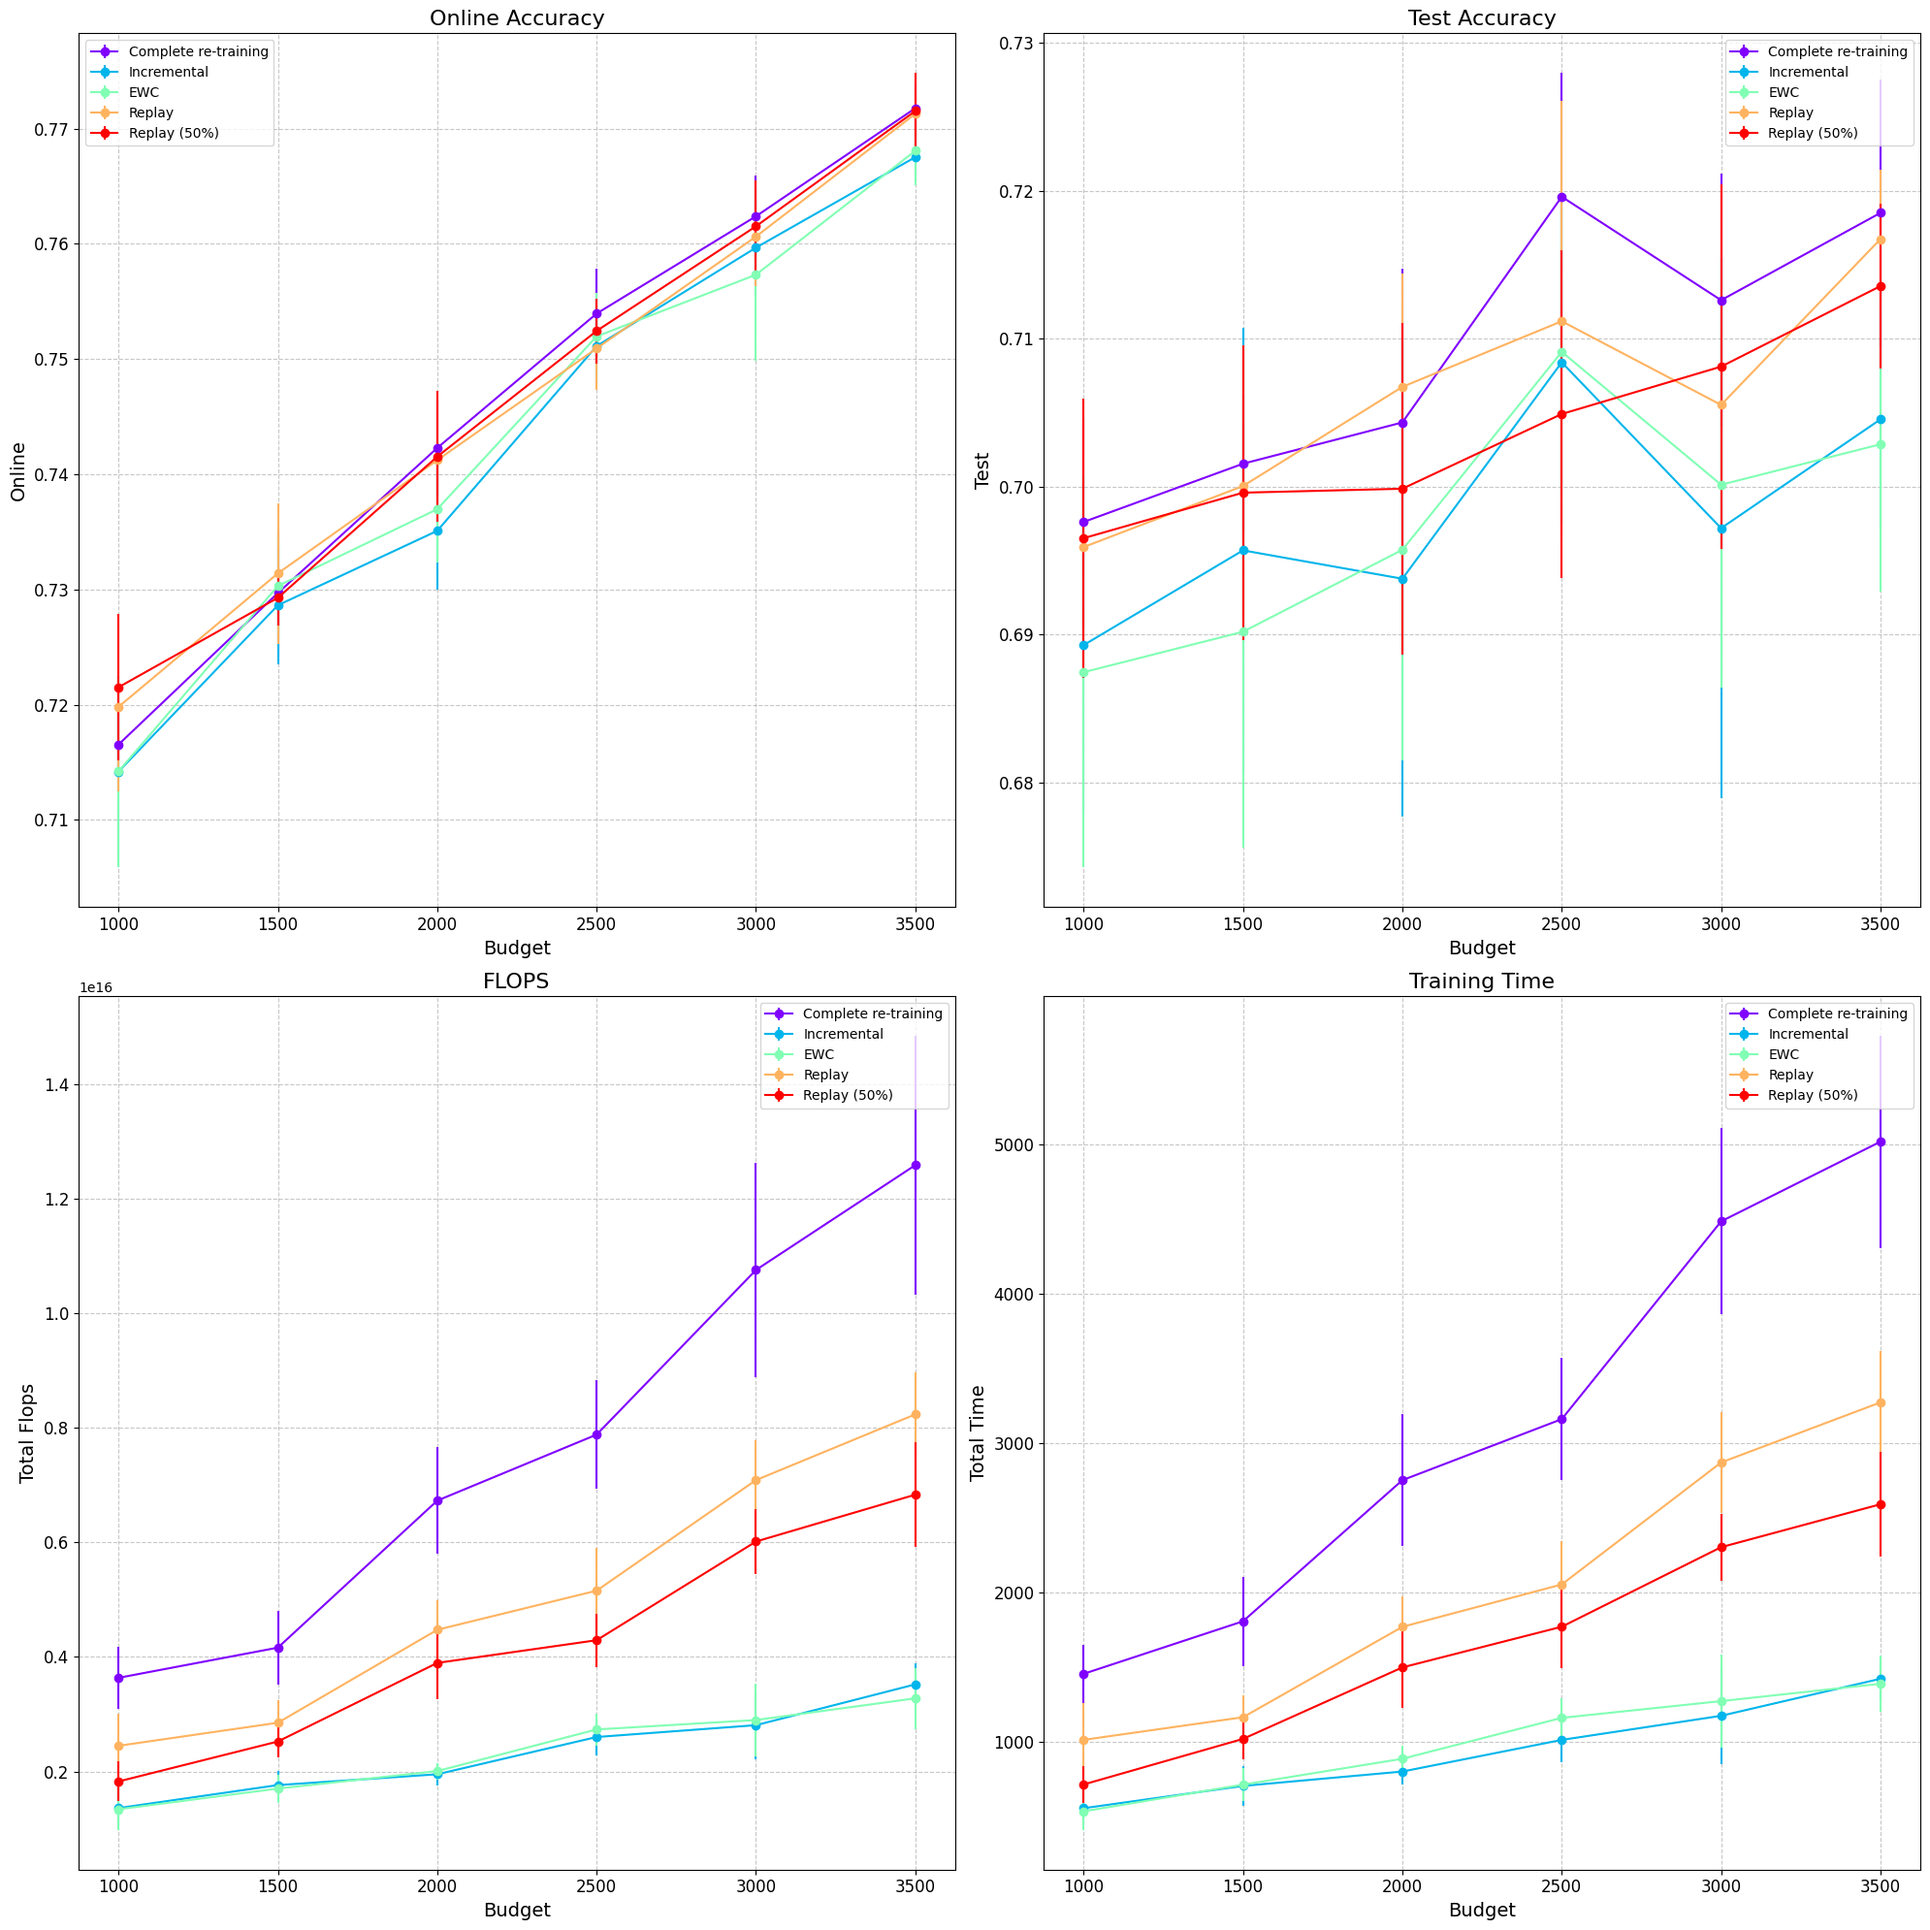
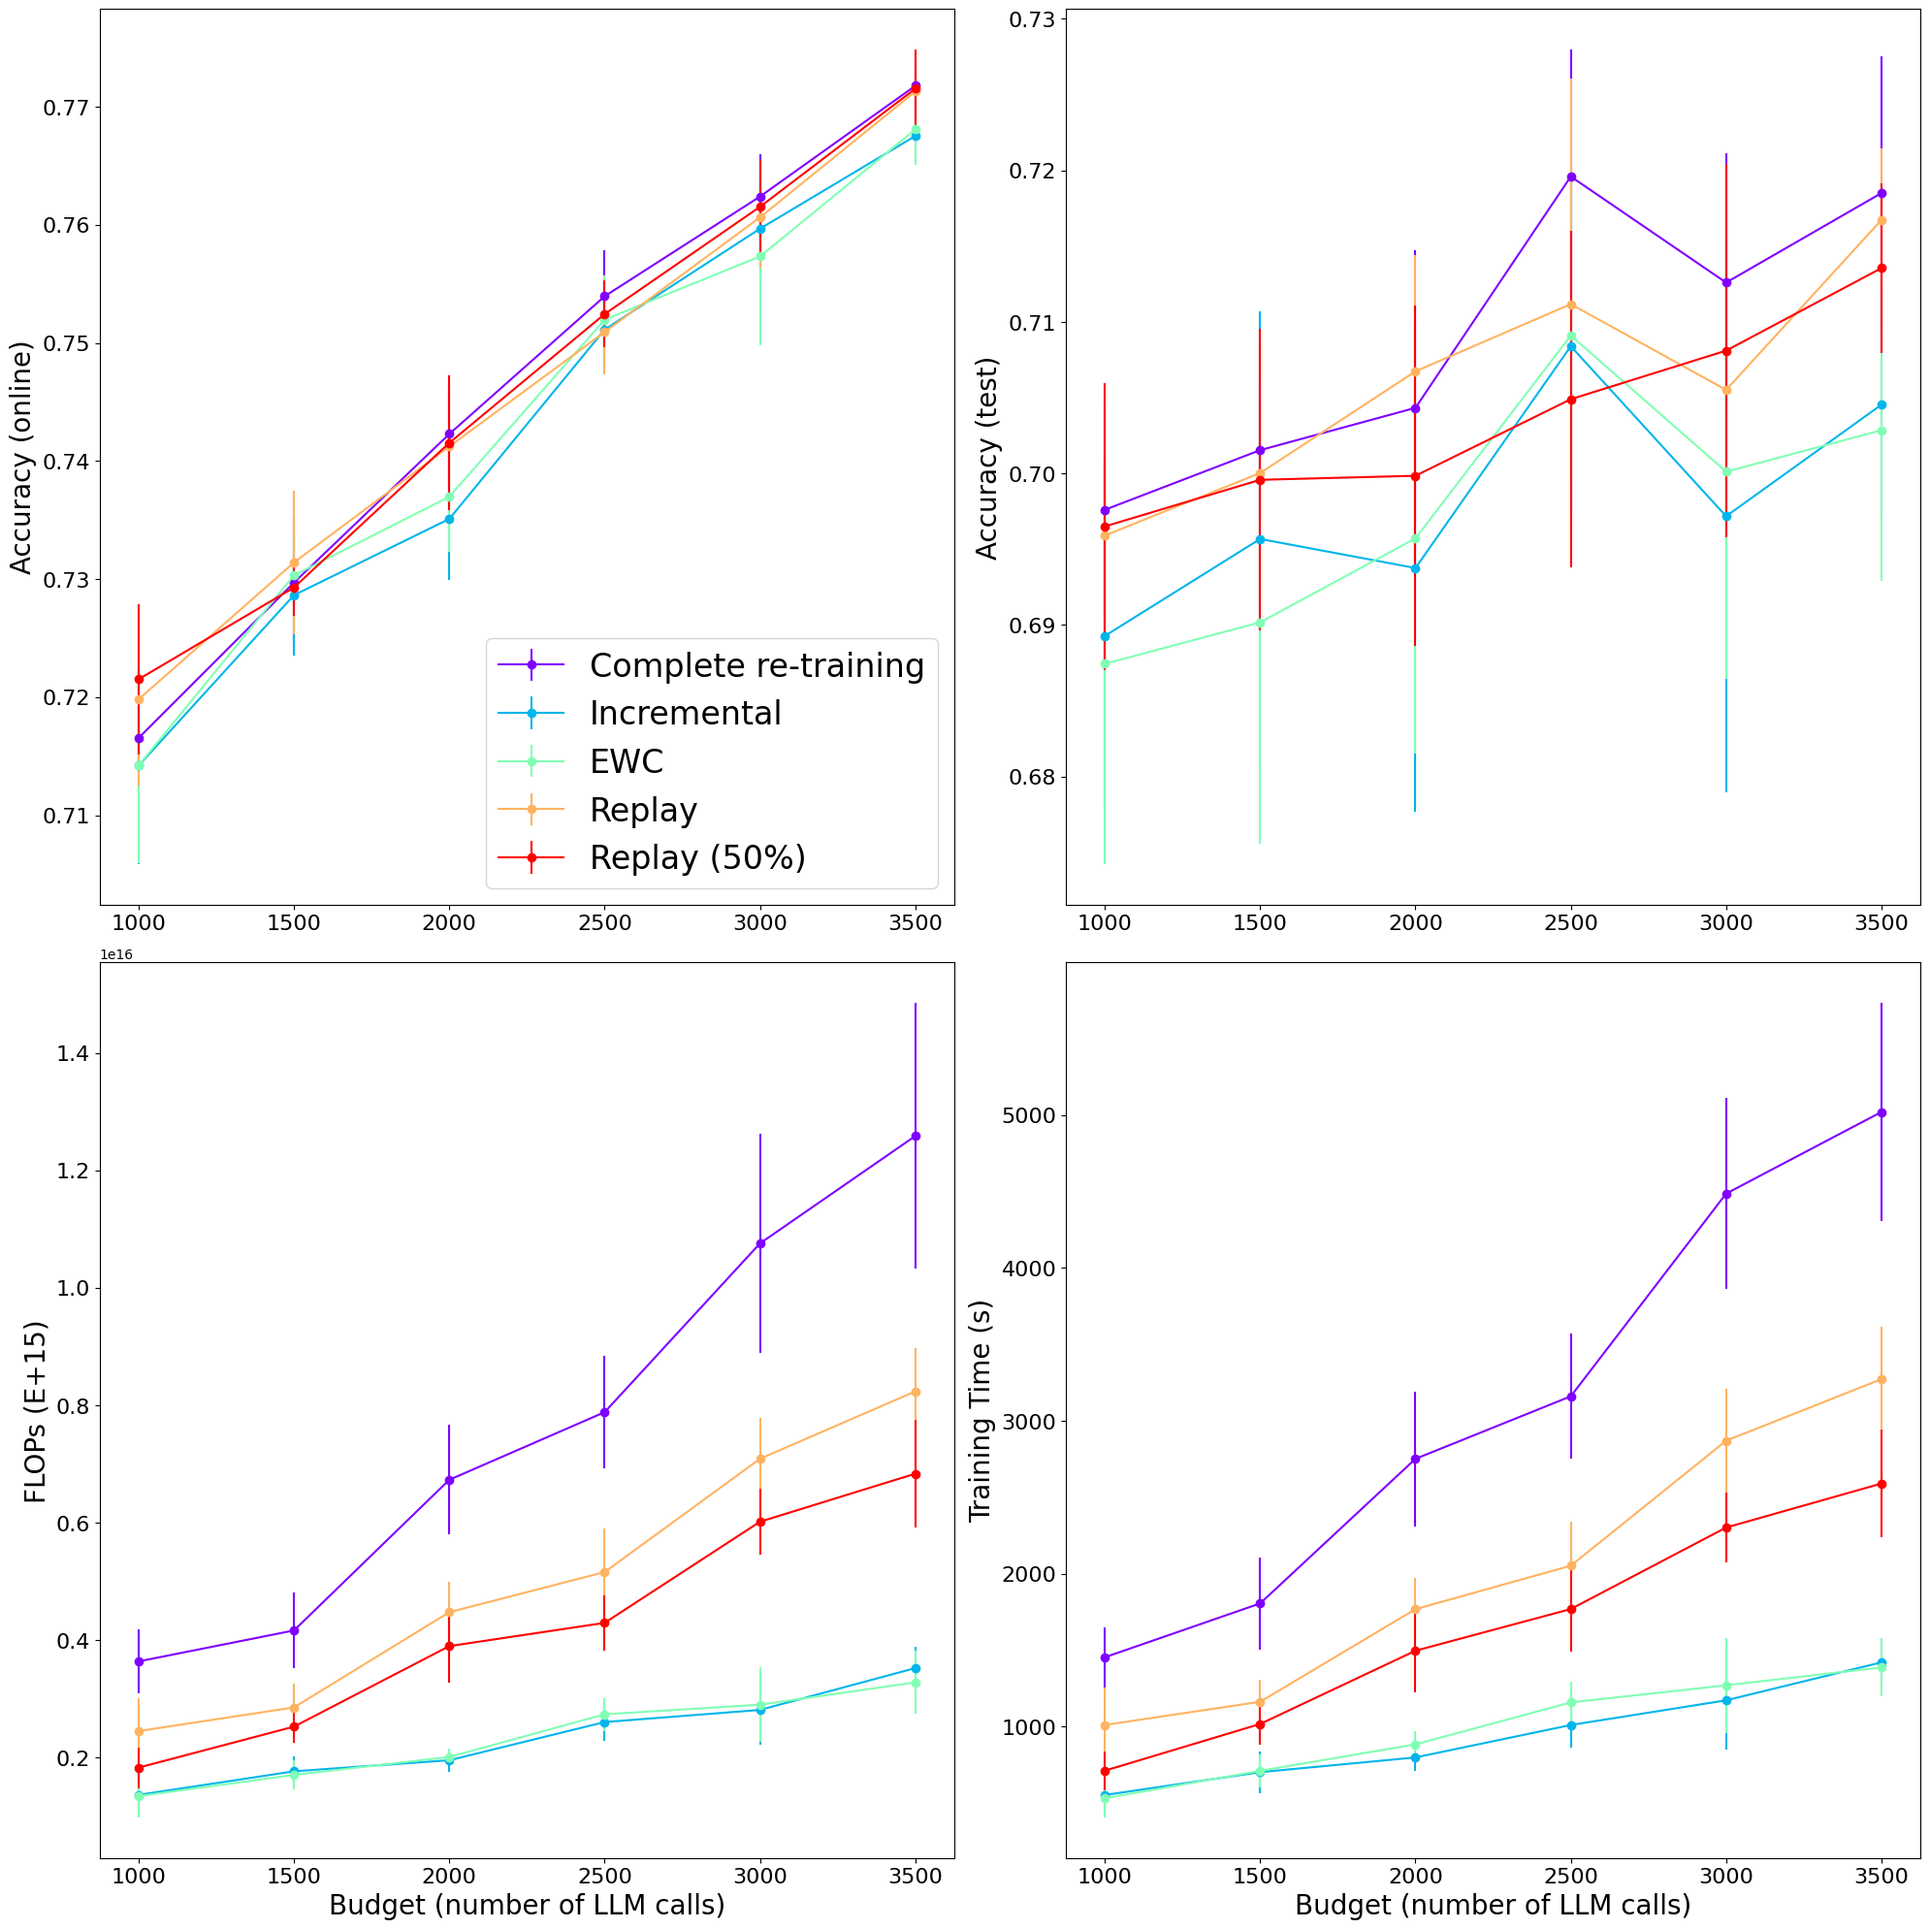
plots added

diff --git a/results/scripts/analyse_complete.py b/results/scripts/analyse_complete.py
@@ -91,10 +91,10 @@ def create_strategy_plot(strategy):
     colors = plt.cm.rainbow(np.linspace(0, 1, len(conditions)))
     
     for i, (plot_metric, title) in enumerate([
-        ('online', f'Online Accuracy'),
-        ('test', f'Test Accuracy'),
-        ('total_flops', f'FLOPS'),
-        ('total_time', f'Training Time')
+        ('online', f'Accuracy (online)'),
+        ('test', f'Accuracy (test)'),
+        ('total_flops', f'FLOPs (E+15)'),
+        ('total_time', f'Training Time (s)')
     ]):
         ax = axs[i // 2, i % 2]
         for j, condition_name in enumerate(conditions):
@@ -103,15 +103,17 @@ def create_strategy_plot(strategy):
                         yerr=data[f'{plot_metric}_std'], 
                         fmt='-o', capsize=0, label=condition_name, color=colors[j])
         
-        ax.set_title(f"{title}", fontsize=16)
-        ax.set_xlabel('Budget', fontsize=14)
-        ax.set_ylabel(plot_metric.replace('_', ' ').title(), fontsize=14)
-        ax.legend(fontsize=10)
-        ax.tick_params(axis='both', which='major', labelsize=12)
-        ax.grid(True, linestyle='--', alpha=0.7)
+        # ax.set_title(f"{title}", fontsize=16)
+        if i>=2:
+            ax.set_xlabel('Budget (number of LLM calls)', fontsize=20)
+        ax.set_ylabel(title, fontsize=20)
+        if plot_metric=='online':
+            ax.legend(fontsize=24, loc='lower right')
+        ax.tick_params(axis='both', which='major', labelsize=16)
+        # ax.grid(True, linestyle='--', alpha=0.7)
     
     plt.tight_layout()
-    plt.savefig(f'results/{strategy}_comparison.png', bbox_inches='tight')
+    plt.savefig(f'results/plots/strategies/{strategy}_comparison.png', bbox_inches='tight')
     plt.close()
 
 # Create and save individual strategy plots
@@ -137,7 +139,7 @@ fig, axs = plt.subplots(2, 2, figsize=(20, 20))
 colors = plt.cm.rainbow(np.linspace(0, 1, len(conditions)))
 
 metrics = ['online', 'test', 'total_flops', 'total_time']
-titles = ['Online Accuracy', 'Test Accuracy', 'FLOPS', 'Training Time']
+titles = ['Accuracy (online)', 'Accuracy (test)', 'FLOPs (E+15)', 'Training Time (s)']
 
 for i, (metric, title) in enumerate(zip(metrics, titles)):
     ax = axs[i // 2, i % 2]
@@ -146,13 +148,16 @@ for i, (metric, title) in enumerate(zip(metrics, titles)):
                     yerr=averaged_data[condition_name][f'{metric}_std'], 
                     fmt='-o', capsize=0, label=condition_name, color=colors[j])
 
-    ax.set_title(f"{title}", fontsize=16)
-    ax.set_xlabel('Budget', fontsize=14)
-    ax.set_ylabel(metric.replace('_', ' ').title(), fontsize=14)
-    ax.legend(fontsize=8, loc='center left', bbox_to_anchor=(1, 0.5))
-    ax.tick_params(axis='both', which='major', labelsize=12)
+    # ax.set_title(f"{title}", fontsize=16)
+    if i>=2:
+        ax.set_xlabel('Budget (number of LLM calls)', fontsize=20)
+    ax.set_ylabel(title, fontsize=20)
+    if metric=='online':
+        ax.legend(fontsize=24, loc='lower right')
+
+    ax.tick_params(axis='both', which='major', labelsize=16)
 
 plt.tight_layout()
 # Save the overall comparison figure
-plt.savefig('results/average_across_datasets_and_strategies.png', bbox_inches='tight')
+plt.savefig('results/all_data,strat.png', bbox_inches='tight')
 plt.close()

diff --git a/results/scripts/analyse_datasets.py b/results/scripts/analyse_datasets.py
@@ -20,7 +20,7 @@ conditions = {
     'Replay (50%)': {'args/buffer_percent': 0.5, 'args/ewc': 'no', 'args/incremental': 'yes'}
 }
 
-strategies = ['b1', 'BT', 'EN', 'CS', 'MV']
+strategies = ['b1']
 
 # Function definitions (unchanged)
 def extract_budgets(data):
